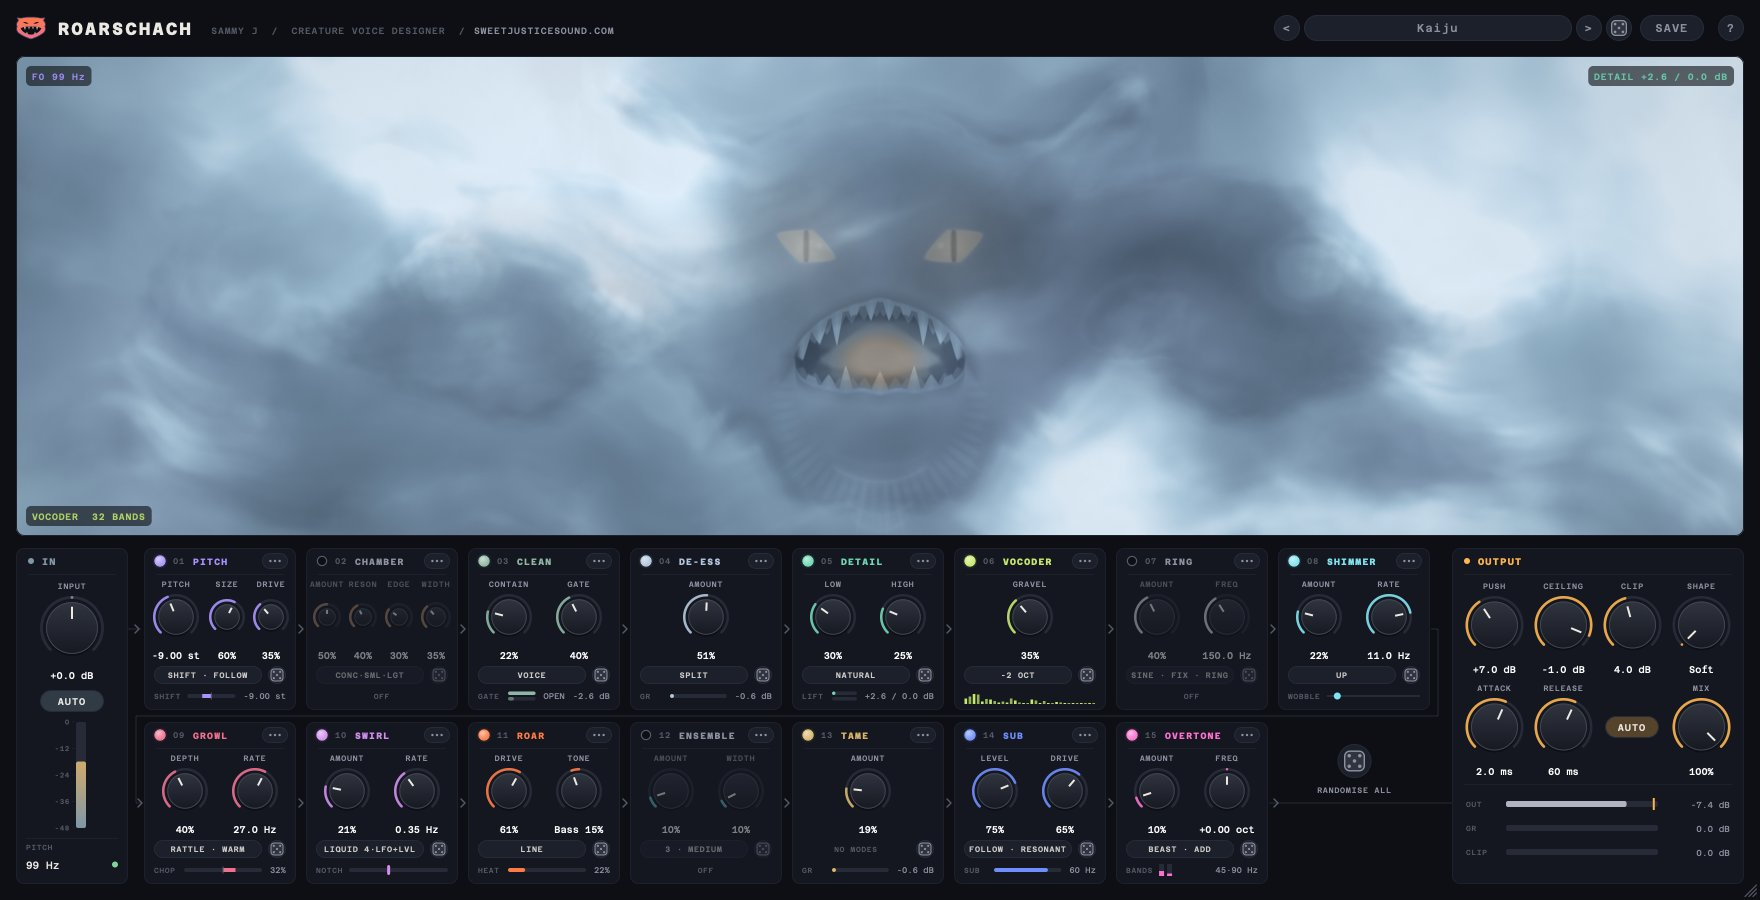
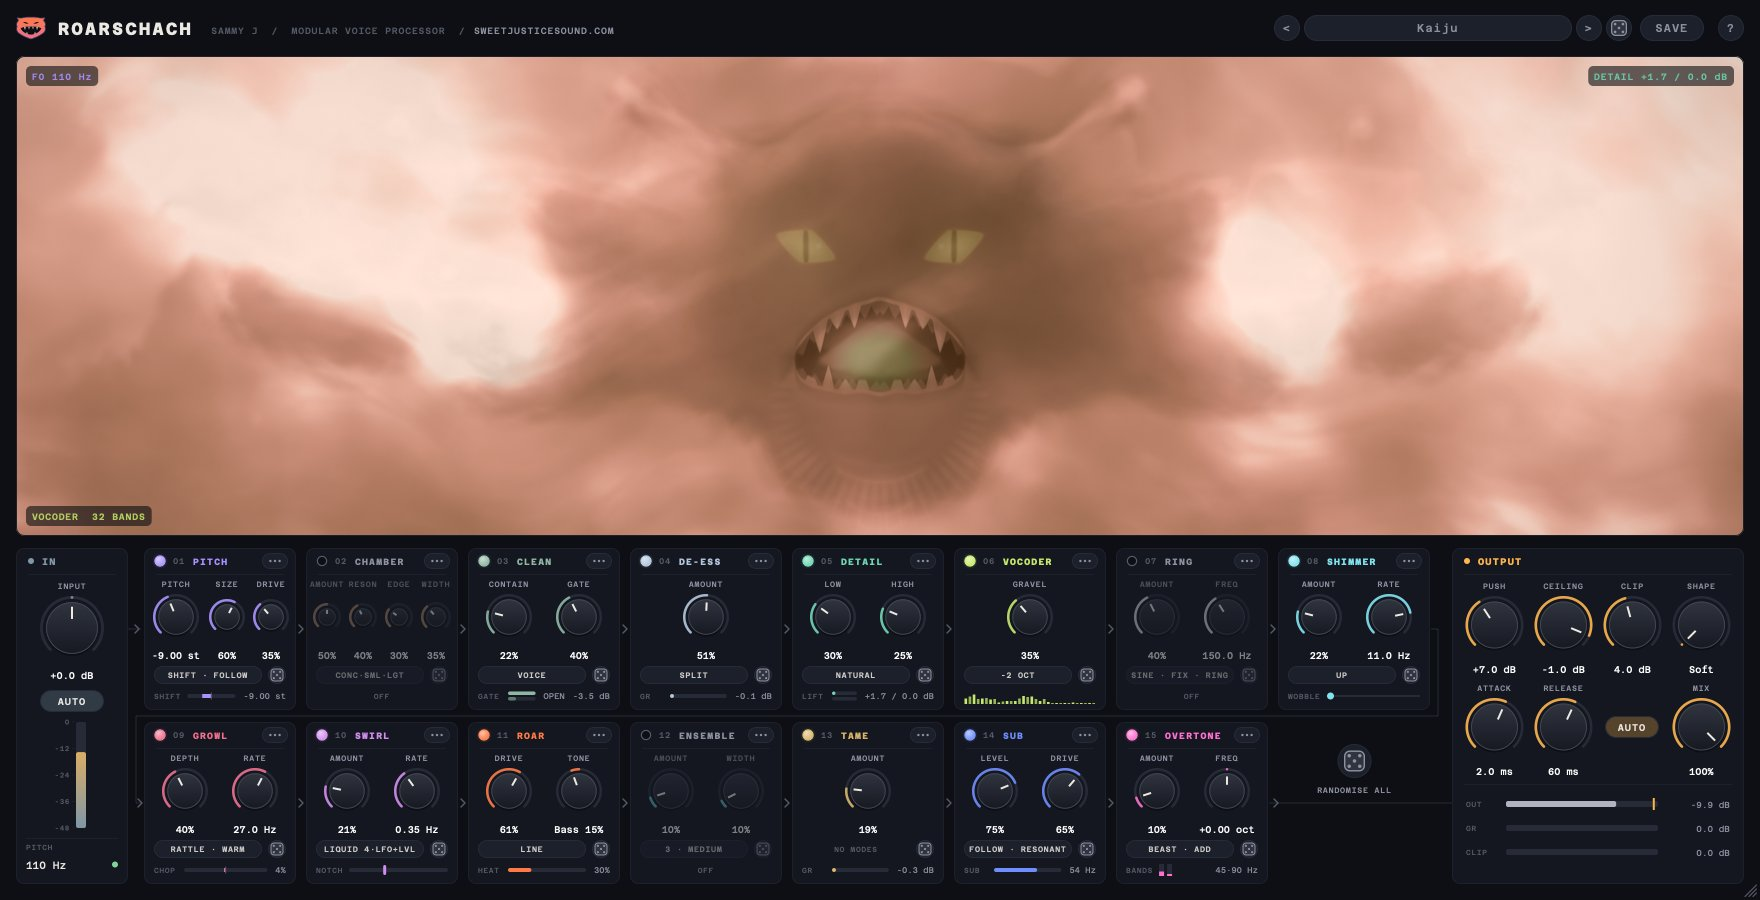
Roarschach docs: retake screenshots with the new tagline and coloured clouds
Retake every README image that shows the editor header or the creature, with
each preset's cloud colour settled (16 s of audio before each capture): the
Kaiju screenshot, roll before/after, the eight preset gallery shots, the six
visualiser stills, the creature menu and the About window (new tagline).
Add colour-moods.jpg, a 2x2 strip of settled colours (Init, Hellhound, Angry
Pepper Pot, Liquid Beast), to the Visualiser section and the homepage.

Bring the text up to date: alt text now names each shot's colour; the
homepage section gains CHAMBER, the dice, the colour mood and 51 presets; the
manual's Visualiser paragraph and Features list cover the colour (including
CHAMBER Edge and that chain order does not matter); the release notes say the
mist takes the colour, it drifts over several seconds and Frozen holds it.

diff --git a/roarschach/README.md b/roarschach/README.md
@@ -4,7 +4,7 @@ A VST3/AU modular voice processor by **Samuel Justice**, built for exploration a
 
 ### 🎉 Latest Release v1.1.0 - [Download Here](https://github.com/samueljustice/plugins/releases/tag/roarschach-v1.1.0)
 
-<img src="docs/screenshot.jpg" alt="The Roarschach window with the Kaiju preset: the creature, a horned head of dark ink smoke with slit amber eyes and a maw of needle teeth, roaring through a pale blue-grey mist, and the chain of fifteen modules in two rows between IN and OUTPUT below, with a die beside the preset name, on every module and after the last module" width="880">
+<img src="docs/screenshot.jpg" alt="The Roarschach window with the Kaiju preset: the creature, a horned head of dark ink smoke with slit amber eyes and a maw of needle teeth, roaring through a pale mist tinted ember red by its drive and growl, and the chain of fifteen modules in two rows between IN and OUTPUT below, with a die beside the preset name, on every module and after the last module" width="880">
 
 ## Features
 
@@ -17,7 +17,7 @@ A VST3/AU modular voice processor by **Samuel Justice**, built for exploration a
 - **Weight**: SUB adds a tracked octave below the voice; OVERTONE turns the low end into overtones so the weight carries on small speakers.
 - **Control**: CLEAN (tone EQ, gate and a leveller), DE-ESS, DETAIL (lifts the quiet parts and pushes the loud parts into a soft ceiling) and TAME (holds back harsh top end).
 - **A finished output**: OUTPUT matches the level to the input, then Push drives a true-peak-safe limiter with a clipper after it. Attack and Release set how clean or crunchy the limiting is, and Auto release keeps it clean. MIX blends in the dry voice, phase-matched to the processed one.
-- **A creature that reacts**: an OpenGL creature that forms out of drifting cloud, whose jaw, eyes, skin and throat follow the voice and every module. It softens back into fog when the input goes quiet, and slowly evolves with sustained intensity.
+- **A creature that reacts**: an OpenGL creature that forms out of drifting cloud, whose jaw, eyes, skin and throat follow the voice and every module. It softens back into fog when the input goes quiet, slowly evolves with sustained intensity, and its clouds drift towards a colour that suits your settings.
 - **Dice**: one die loads a random factory preset, one rolls a whole new creature, and one on each module rolls just that module, always inside each knob's useful range. Every roll can be undone.
 - **Presets**: 51 factory presets (Init plus six groups: Creatures, Voices, Machines, Signal Flow, Vocoder, Utility). Save your own with SAVE. They are plain files, easy to back up and share.
 - **Full recall**: every parameter, the module order, the preset name and the window size are saved with your session, and the factory presets are exposed to the host as programs.
@@ -112,9 +112,9 @@ Each roll is one step you can take back: right-click any die for **Undo** and **
 
 One RANDOMISE ALL roll from the Big Bad Narrator preset. Before, PITCH, CLEAN, DE-ESS, DETAIL, ROAR, TAME, SUB, OVERTONE and CHAMBER are on; after, CLEAN, VOCODER, RING, SHIMMER and ENSEMBLE are, every module has new settings, the preset name shows `*`, and the creature has a faint dark metal muzzle round its mouth from RING. The module order, IN and OUTPUT are as they were.
 
-<img src="docs/roll-before.jpg" alt="The whole window with the Big Bad Narrator preset playing a voice: PITCH, CLEAN, DE-ESS, DETAIL, ROAR, TAME, SUB, OVERTONE and CHAMBER switched on" width="880">
+<img src="docs/roll-before.jpg" alt="The whole window with the Big Bad Narrator preset playing a voice: PITCH, CHAMBER, CLEAN, DE-ESS, DETAIL, ROAR, TAME, SUB and OVERTONE switched on, and the creature in pale blue-grey mist" width="880">
 
-<img src="docs/roll-after.jpg" alt="The same window after one RANDOMISE ALL roll: the preset name reads Big Bad Narrator *, and CLEAN, VOCODER, RING, SHIMMER and ENSEMBLE are on with new settings while the other modules are off; the creature has a faint dark metal muzzle round its mouth" width="880">
+<img src="docs/roll-after.jpg" alt="The same window after one RANDOMISE ALL roll: the preset name reads Big Bad Narrator *, and CLEAN, VOCODER, RING, SHIMMER and ENSEMBLE are on with new settings while the other modules are off; the clouds have drifted to a cold electric blue, and the creature has a faint dark metal muzzle round its mouth" width="880">
 
 A roll only lands where a knob is useful: each knob rolls inside the range the [parameter audit](docs/parameter-audit.md) found usable, never into its dead or harmful ends (PITCH −14 to −2 st, Swirl up to 50% and its Deep 6 circuit up to 30%, Ring Freq 60–450 Hz, Chamber 15–65%, and so on), and each mode is picked evenly from its options (Boom leaves out Heavy). The dice never move a module or touch IN or OUTPUT, so the level stays safe: on five real voice takes, 200 rolls each, 998 of the 1,000 rolls played within 3 LU of Init (the other two 3.0 and 3.8 LU quieter), and none went over the ceiling. Knobs glide to their new values and modules fade in and out, so a roll does not click while audio plays.
 
@@ -349,19 +349,21 @@ The meters show the output level (with the ceiling marked), the limiter's gain r
 
 ## Visualiser
 
-The creature above the chain is drawn live in OpenGL from the audio and the controls. It forms out of slowly swirling cloud, all of it seen through a drifting veil of pale, cool blue-grey mist: when the voice comes in, its eyes and mouth glow through first, then the brow and teeth, then the head, and the cloud condenses into a mirror-symmetric blot of ink smoke that reads through the mist as a soft dark shape. The mist thins a little around the eyes and on loud roars but never clears. When it goes quiet the face softens back into fog, with the eyes the last to fade.
+The creature above the chain is drawn live in OpenGL from the audio and the controls. It forms out of slowly swirling cloud, all of it seen through a drifting veil of pale mist, a cool blue-grey at the default settings: when the voice comes in, its eyes and mouth glow through first, then the brow and teeth, then the head, and the cloud condenses into a mirror-symmetric blot of ink smoke that reads through the mist as a soft dark shape. The mist thins a little around the eyes and on loud roars but never clears. When it goes quiet the face softens back into fog, with the eyes the last to fade.
 
-<img src="docs/view-asleep.jpg" alt="Silence: pale blue-grey cloud drifting under a thick veil of mist, with no face in it" width="400"> <img src="docs/view-forming.jpg" alt="The voice comes in: two small amber eyes and the line of a mouth gather out of the mist first" width="400">
-<img src="docs/view-talking.jpg" alt="Early on, talking: a round smoky head in the mist with slit amber eyes and a small mouth of teeth glowing orange in its throat" width="400"> <img src="docs/view-liquid.jpg" alt="After a few minutes of roaring with Liquid Beast: a dark, smoky head seen through the mist with swept-out wisps of smoke at its sides, slit eyes and a wide maw of needle teeth around a glowing throat" width="400">
-<img src="docs/view-horned.jpg" alt="Later, with Kaiju: a heavier head with broad smoke wings spreading through the mist, faint creases on its brow and the vocoder's fan of ridges under its jaw" width="400"> <img src="docs/view-crown.jpg" alt="After a long, loud session: extra eyes open on its brow and cheeks, and its smoke wings spread wide with ragged edges" width="400">
+<img src="docs/view-asleep.jpg" alt="Silence, at Init: pale blue-grey cloud drifting under a thick veil of mist, with no face in it" width="400"> <img src="docs/view-forming.jpg" alt="The voice comes in: two small amber eyes and the line of a mouth gather out of the mist first" width="400">
+<img src="docs/view-talking.jpg" alt="Early on, talking: a round smoky head in the mist with slit amber eyes and a small mouth of teeth glowing orange in its throat" width="400"> <img src="docs/view-liquid.jpg" alt="After a few minutes of roaring with Liquid Beast, the clouds turned violet: a dark, smoky head seen through the mist with swept-out wisps of smoke at its sides, slit eyes and a wide maw of needle teeth around a glowing throat" width="400">
+<img src="docs/view-horned.jpg" alt="Later, with Kaiju, the clouds ember red: a heavier head with broad smoke wings spreading through the mist, faint creases on its brow and the vocoder's fan of ridges under its jaw" width="400"> <img src="docs/view-crown.jpg" alt="After a long, loud session, still ember red: extra eyes open on its brow, and its smoke wings spread wide with ragged edges" width="400">
 
 **It evolves.** Sustained intensity (loud, heated, growling, driven sound, not just high knob settings) slowly grows it from a pale pressed blot into something larger: a soft moth-like spirit, a horned beast, a dripping liquid horror, a winged and horned wyrm, and finally a many-eyed thing with a crown of spines. The stages blend into each other and never switch: horns and spines grow out of the head, extra eyes open from creases in the skin, and the change takes minutes, not seconds. Quiet lets it cool and settle back over minutes. A long, hard session leaves its mark: it only drifts all the way home after a long stretch of quiet. Which modules carry the sound also leans its character: SHIMMER, SWIRL and ENSEMBLE make it more fluid, ROAR, GROWL and the clipper more bestial, the VOCODER, RING and OVERTONE more eldritch, and SUB, a low PITCH and a straining limiter heavier and darker. Every instance grows its own creature, and the creature and how far it has evolved are saved with the session.
 
-**Its colour follows your settings.** The clouds and the mist lean slowly towards a colour that suits the sound you have set up. Heavier ROAR, GROWL, PITCH Drive, a deeper pitch, SUB Drive and OUTPUT Push and Clip warm it towards ember red. The VOCODER, RING, SHIMMER, Snap or Mono pitch, the Radio tone and the metal rooms turn it a clear electric blue. SWIRL, ENSEMBLE and OVERTONE tint it violet. A big CHAMBER room leans it to a lichen green-grey on its own, and turns the other colours towards stone. Mixed settings mix their colours: heavy drive with the vocoder is a rust, drive with SWIRL a crimson rose, the vocoder with SWIRL an indigo, drive in a big room a warm stone and the vocoder in one a teal. Init and light settings keep the pale blue-grey, and so does Mix at 0%. Only the hue and its strength move: the mist stays as pale and as thick, and the eyes and throat keep a warm glow that stands apart from the clouds, turning a hotter gold when the clouds are warm. The colour never jumps: after a preset change, a roll of the dice or a turned knob it drifts to the new colour over several seconds, turning round the colour wheel no faster than a twelfth of the way each second, through soft tones rather than grey.
+**Its colour follows your settings.** The clouds and the mist lean slowly towards a colour that suits the sound you have set up. Heavier ROAR, GROWL, PITCH Drive, a deeper pitch, SUB Drive, OUTPUT Push and Clip and CHAMBER's Edge warm it towards ember red. The VOCODER, RING, SHIMMER, Snap or Mono pitch, the Radio tone and the metal rooms turn it a clear electric blue. SWIRL, ENSEMBLE and OVERTONE tint it violet. A big CHAMBER room (a high Amount and a long Reson) leans it to a lichen green-grey on its own, and turns the other colours towards stone. Mixed settings mix their colours: heavy drive with the vocoder is a rust, drive with SWIRL a crimson rose, the vocoder with SWIRL an indigo, drive in a big room a warm stone and the vocoder in one a teal. Only the modules that are on and how far their knobs are turned count, not where they sit in the chain. Init and light settings keep the pale blue-grey, and so does Mix at 0%. Only the hue and its strength move: the mist stays as pale and as thick, and the eyes and throat keep a warm glow that stands apart from the clouds, turning a hotter gold when the clouds are warm. The colour never jumps: after a preset change, a roll of the dice or a turned knob it drifts to the new colour over several seconds, turning round the colour wheel no faster than a twelfth of the way each second, through soft tones rather than grey.
+
+<img src="docs/colour-moods.jpg" alt="The same creature with its colour settled for four presets: Init in the default pale blue-grey (top left), Hellhound in ember red (top right), Angry Pepper Pot in electric blue (bottom left) and Liquid Beast in violet (bottom right)" width="604">
 
 Right-click the creature for **Evolution: Live** (it keeps evolving), **Evolution: Frozen** (it holds its current form and colour, also after the editor is closed or the project reloaded; it still moves with the voice) and **Reset creature** (it eases back to a blot over a few seconds and grows a new one).
 
-<img src="docs/creature-menu.jpg" alt="The creature's right-click menu under the lower-left corner of the view: a Creature heading, Evolution: Live (ticked), Evolution: Frozen and Reset creature" width="420">
+<img src="docs/creature-menu.jpg" alt="The creature's right-click menu under the lower-left corner of the ember-red view: a Creature heading, Evolution: Live (ticked), Evolution: Frozen and Reset creature" width="420">
 
 On top of whatever form it has taken, every module still shows on it:
 
@@ -407,12 +409,12 @@ Six character presets are each built around one technique, and each works best w
 - **Angry Pepper Pot** (Machines): a furious voice in a metal shell. A low ring modulator chops the voice into a staccato electronic stutter, and nothing else colours it. Shout, and pitch your delivery up to hector.
 - **Ball Bearing** (Machines): a small, chirpy machine. The voice is raised an octave and stepped to semitones, with a faint synthetic buzz, a quick warble and a tiny speaker. Coo and chirp short syllables rather than speaking.
 
-A few contrasting presets, each playing the same voice (the creature is shown at a different stage of growth in each):
+A few contrasting presets, each playing the same voice (the creature is shown at a different stage of growth in each, with its colour settled for the preset):
 
-<img src="docs/preset-simple-size.jpg" alt="Simple Size: PITCH at -1 st, CLEAN, DE-ESS, TAME and CHAMBER on and everything else off; a faint early creature in the mist" width="440"> <img src="docs/preset-cyber-commander.jpg" alt="Cyber Commander: CLEAN, RING, PITCH, ROAR, DE-ESS, DETAIL, GROWL and TAME on, with CLEAN and RING moved ahead of PITCH; the creature has RING's faint dark metal muzzle round its mouth" width="440">
-<img src="docs/preset-symbiote.jpg" alt="Symbiote: PITCH, CLEAN, DE-ESS, SHIMMER, GROWL, SWIRL, ROAR, ENSEMBLE, TAME and SUB on; a dark smoky head with spreading wings and a wide maw of teeth" width="440"> <img src="docs/preset-iron-tyrant.jpg" alt="Iron Tyrant: CHAMBER after ROAR in Steel Box with the Horn speaker, and PITCH, CLEAN, DE-ESS, DETAIL, GROWL, TAME and SUB on; a horned head with broad wings and a glowing maw" width="440">
-<img src="docs/preset-upside-down.jpg" alt="Upside Down: CLEAN, DE-ESS, DETAIL, PITCH at 0 st, ROAR, TAME, SUB at Tight, ENSEMBLE and CHAMBER last in Concrete Room; a broad grey head in the mist with amber eyes and an open, glowing maw" width="440"> <img src="docs/preset-spore-throat.jpg" alt="Spore Throat: no pitch change and no room, with CLEAN on Radio, DE-ESS, DETAIL, GROWL on Rattle, ROAR on Mic and OVERTONE on Speaker, Lean; a horned head with wide wings and a toothed maw" width="440">
-<img src="docs/preset-ball-bearing.jpg" alt="Ball Bearing: PITCH at +12 st on Snap, CLEAN, VOCODER, RING, SHIMMER, DE-ESS, DETAIL, CHAMBER in Padded Cell with the Tiny speaker and OVERTONE on; a faint early creature with amber eyes and a small open mouth" width="440"> <img src="docs/preset-stairwell-stalker.jpg" alt="Stairwell Stalker: PITCH at -4 st, CLEAN, DE-ESS, DETAIL, SHIMMER, GROWL on Rattle, SWIRL, ROAR, ENSEMBLE, TAME, SUB and CHAMBER last in Tower Block at full width; a grey head in the mist with pale eyes and a long row of teeth" width="440">
+<img src="docs/preset-simple-size.jpg" alt="Simple Size: PITCH at -1 st, CLEAN, DE-ESS, TAME and CHAMBER on and everything else off; a soft early creature in pale blue-grey mist, light settings keeping the default colour" width="440"> <img src="docs/preset-cyber-commander.jpg" alt="Cyber Commander: CLEAN, RING, PITCH, ROAR, DE-ESS, DETAIL, GROWL and TAME on, with CLEAN and RING moved ahead of PITCH; the creature has RING's faint dark metal muzzle round its mouth, in a cold blue mist" width="440">
+<img src="docs/preset-symbiote.jpg" alt="Symbiote: PITCH, CLEAN, DE-ESS, SHIMMER, GROWL, SWIRL, ROAR, ENSEMBLE, TAME and SUB on; a dark smoky head with spreading wings and a wide maw of teeth, in a rose-violet mist" width="440"> <img src="docs/preset-iron-tyrant.jpg" alt="Iron Tyrant: CHAMBER after ROAR in Steel Box with the Horn speaker, and PITCH, CLEAN, DE-ESS, DETAIL, GROWL, TAME and SUB on; a horned head with broad wings and a glowing maw, in a warm stone-coloured mist" width="440">
+<img src="docs/preset-upside-down.jpg" alt="Upside Down: CLEAN, DE-ESS, DETAIL, PITCH at 0 st, ROAR, TAME, SUB at Tight, ENSEMBLE and CHAMBER last in Concrete Room; a broad head in a green-grey mist with amber eyes and an open, glowing maw" width="440"> <img src="docs/preset-spore-throat.jpg" alt="Spore Throat: no pitch change and no room, with CLEAN on Radio, DE-ESS, DETAIL, GROWL on Rattle, ROAR on Mic and OVERTONE on Speaker, Lean; a horned head with wide wings and a toothed maw, in a crimson rose mist" width="440">
+<img src="docs/preset-ball-bearing.jpg" alt="Ball Bearing: PITCH at +12 st on Snap, CLEAN, VOCODER, RING, SHIMMER, DE-ESS, DETAIL, CHAMBER in Padded Cell with the Tiny speaker and OVERTONE on; an early creature with amber eyes and a small open mouth, in a teal mist" width="440"> <img src="docs/preset-stairwell-stalker.jpg" alt="Stairwell Stalker: PITCH at -4 st, CLEAN, DE-ESS, DETAIL, SHIMMER, GROWL on Rattle, SWIRL, ROAR, ENSEMBLE, TAME, SUB and CHAMBER last in Tower Block at full width; a head in a slate-blue mist with amber eyes and a long row of teeth" width="440">
 
 Each preset's settings sit in the useful part of every knob's travel, as measured in [docs/parameter-audit.md](docs/parameter-audit.md), and every preset except the deliberately loud Utility ones (Loud & Contained, Crunch Lift and Smashed) plays within about 1.5 LU of Init.
 

diff --git a/README.md b/README.md
@@ -189,16 +189,22 @@ Roarschach is a modular voice processor built for exploration and fun. Fifteen m
 
 - 🗣 **Pitch and size, separately**: shift the voice up to two octaves down, then give it a bigger throat. Native-rate processing brings a 96 or 192 kHz recording's ultrasonic detail down into the voice
 - 🐉 **Texture and weight**: a growling chop, a liquid wobble, a phaser, tube saturation, an ensemble, a tracked sub and overtones that carry the low end on small speakers
+- 📦 **A room**: CHAMBER plays the voice through a small speaker into a tight, resonant room and blends it back under the voice, with ten bundled rooms, three speakers, speaker breakup, Width and a low-end Boom
 - 🤖 **Machines**: a 32-band pulse-carrier vocoder and a ring modulator with a pitch-tracking carrier and a resonant body
 - 🧩 **Any order**: drag any module by its header, or use its ••• menu, to anywhere in the chain. Moves are click-free
 - 🔊 **A finished output**: Push into a true-peak-safe limiter and an oversampled clipper, with Attack, Release and Auto to choose between clean limiting and low-end crunch
-- 👁 **A living creature** that forms out of drifting cloud, opens its jaw, glows, shakes and drips with the voice, softens back into fog in silence, and slowly evolves the harder you push it. Plus **40 factory presets** in six groups
+- 🎲 **Dice**: one die loads a random factory preset, one rolls a whole new creature, and one on each module rolls just that module, always inside each knob's useful range. Every roll can be undone
+- 👁 **A living creature** that forms out of drifting cloud, opens its jaw, glows, shakes and drips with the voice, softens back into fog in silence, and slowly evolves the harder you push it. Its clouds drift towards a colour that suits your settings: ember red for drive and growl, electric blue for the vocoder and ring, violet for the phaser, chorus and overtones
+- 🎛 **51 factory presets**: Init plus six groups (Creatures, Voices, Machines, Signal Flow, Vocoder and Utility), and your own saved as plain files
 
 <details>
 <summary>More screenshots</summary>
 <br>
 <p align="center">
-  <img src="roarschach/docs/view-forming.jpg" alt="Roarschach creature forming out of the fog" width="400"> <img src="roarschach/docs/view-crown.jpg" alt="Roarschach creature after a long, loud session" width="400">
+  <img src="roarschach/docs/view-forming.jpg" alt="Roarschach creature forming out of the fog" width="400"> <img src="roarschach/docs/view-crown.jpg" alt="Roarschach creature after a long, loud session, its clouds ember red" width="400">
+</p>
+<p align="center">
+  <img src="roarschach/docs/colour-moods.jpg" alt="Roarschach clouds settled in four colours: pale blue-grey at Init, ember red, electric blue and violet" width="604">
 </p>
 <p align="center">
   <img src="roarschach/docs/panel-out.png" alt="Roarschach output stage" width="300"> <img src="roarschach/docs/tooltip.png" alt="Roarschach tooltip" width="474">

diff --git a/roarschach/RELEASE_NOTES.md b/roarschach/RELEASE_NOTES.md
@@ -36,7 +36,7 @@ CHAMBER plays the voice through a small speaker into a tight, resonant room, the
 
 ### New: the creature
 
-The creature is drawn by a new renderer. Its clouds swirl as a moving fluid, and the creature is lit ink smoke instead of outlines, with its eyes and throat glowing through it. A top layer of pale, cool blue-grey mist veils everything: it thins a little on loud roars and around the eyes, and thickens when the creature sleeps. Its jaw now follows each phrase, with weight, instead of snapping open on every syllable. Its colour follows your settings: the clouds drift slowly towards ember red as the drive and growl get heavier, a colder electric blue with the vocoder, ring and shimmer, violet with swirl, ensemble and overtone, and a lichen green-grey in CHAMBER's room, and stay pale blue-grey at Init. On slower graphics cards it lowers its own detail to stay smooth.
+The creature is drawn by a new renderer. Its clouds swirl as a moving fluid, and the creature is lit ink smoke instead of outlines, with its eyes and throat glowing through it. A top layer of pale mist veils everything: it thins a little on loud roars and around the eyes, and thickens when the creature sleeps. Its jaw now follows each phrase, with weight, instead of snapping open on every syllable. Its colour follows your settings: the clouds and the mist drift slowly towards ember red as the drive and growl get heavier, a colder electric blue with the vocoder, ring and shimmer, violet with swirl, ensemble and overtone, and a lichen green-grey in a big CHAMBER room (a teal with the vocoder), and stay pale blue-grey at Init and light settings. A change of preset or a dice roll drifts to the new colour over several seconds, and Evolution: Frozen holds the colour along with the form. On slower graphics cards it lowers its own detail to stay smooth.
 
 ### Your sessions and presets
 
